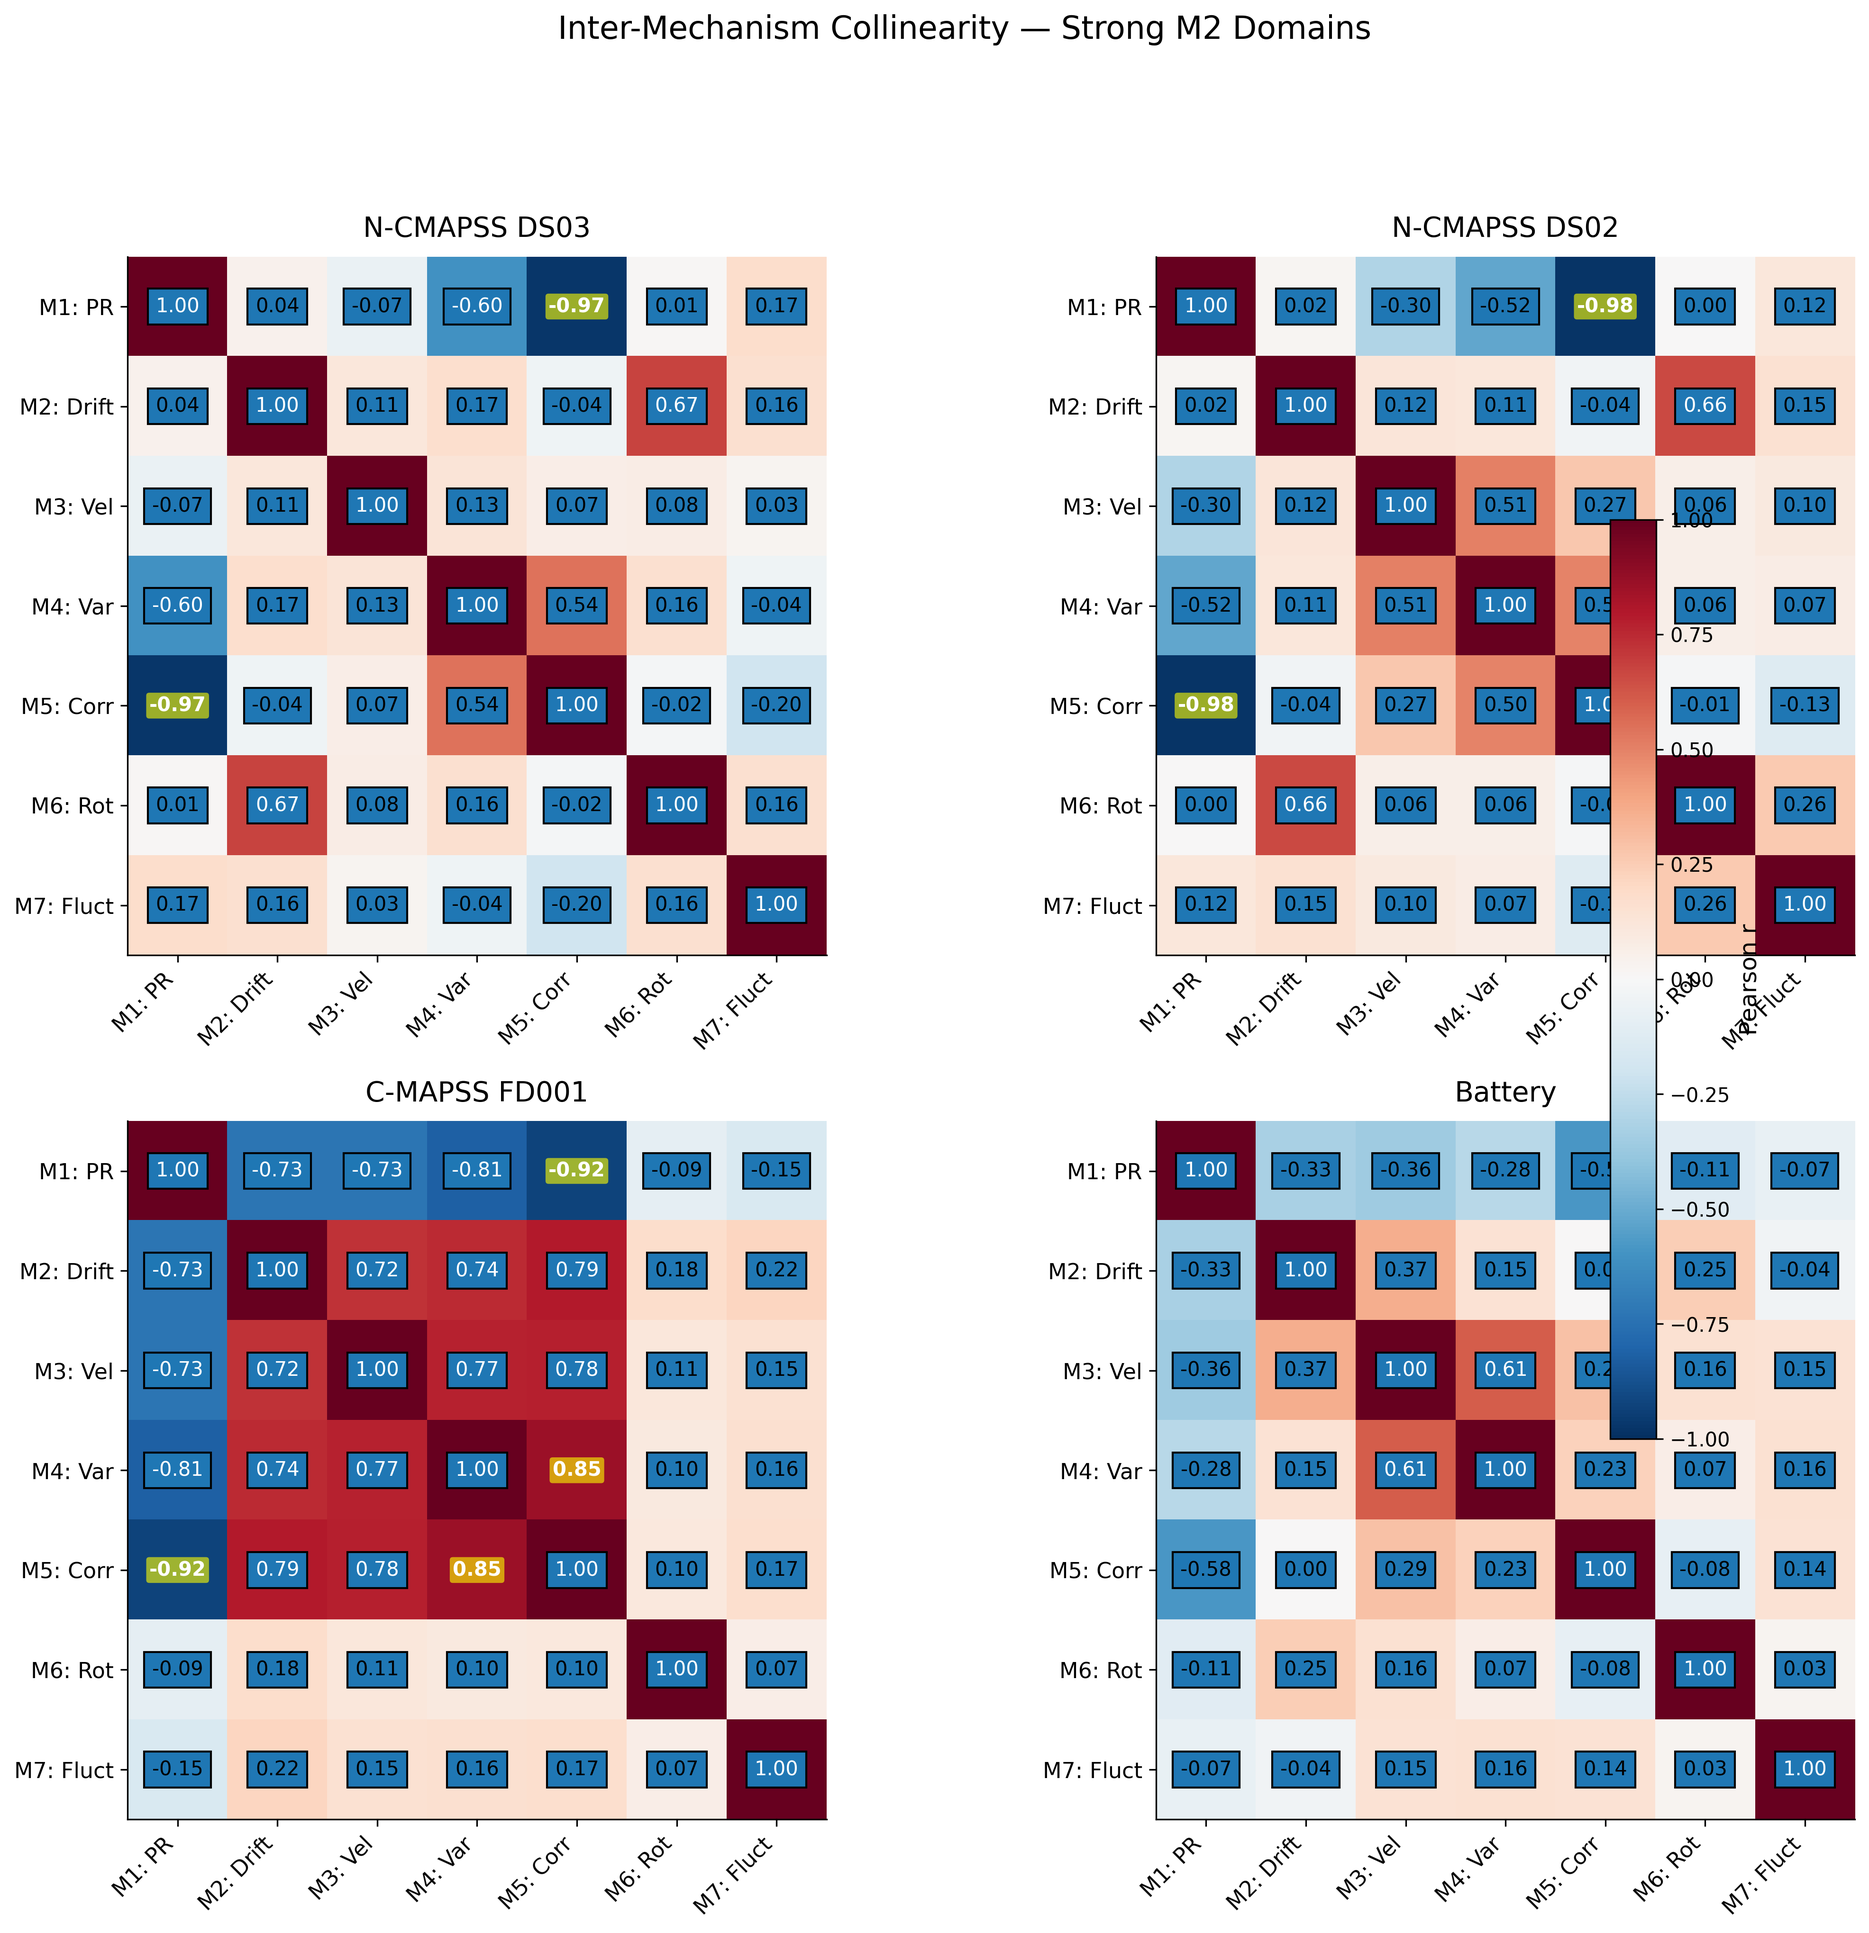
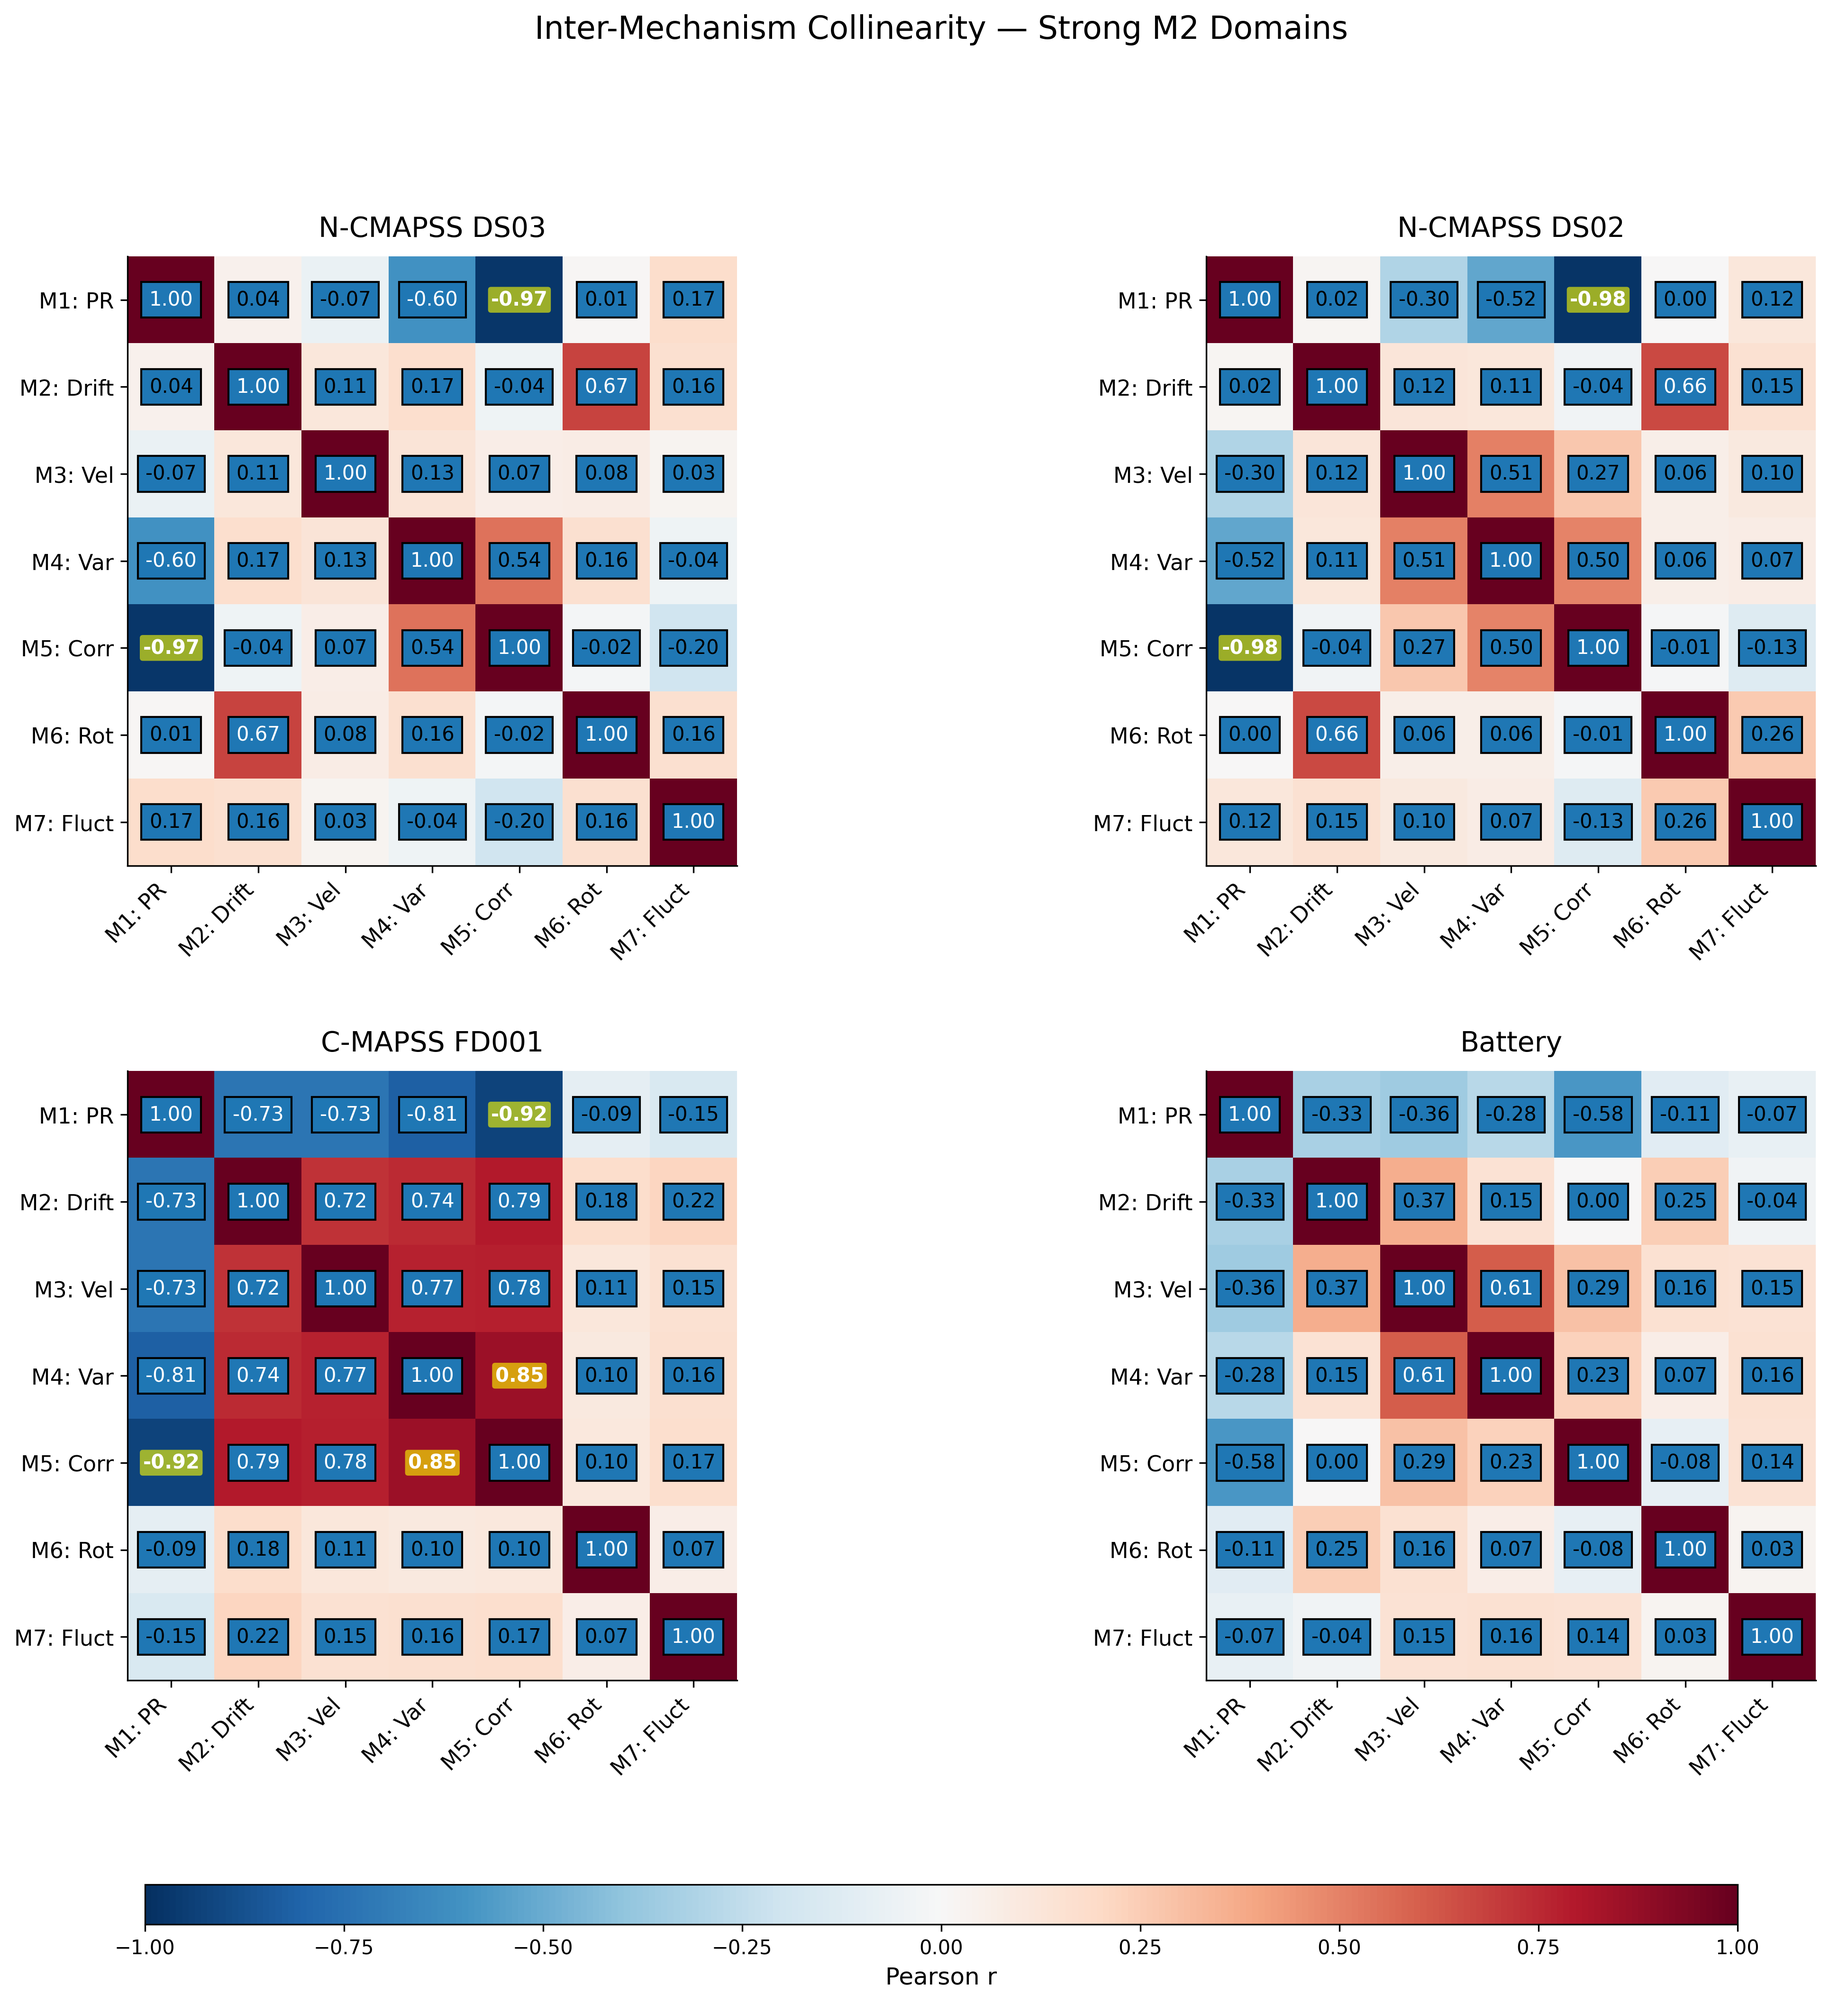
experiment: fix collinearity colorbar overlap — horizontal bottom placement

diff --git a/experiments/mechanism_discovery/generate_figures.py b/experiments/mechanism_discovery/generate_figures.py
@@ -343,9 +343,10 @@ def _plot_collinearity_2x2(results, domains, title, filename):
                         bbox=dict(boxstyle="round,pad=0.15", facecolor="yellow",
                                   alpha=0.6, edgecolor="none") if flagged else {})
 
-    fig.colorbar(im, ax=axes, shrink=0.6, label="Pearson r", pad=0.03)
     fig.suptitle(title, fontsize=16, y=0.98)
-    fig.tight_layout(pad=3.0, rect=[0, 0, 0.92, 0.95])
+    fig.tight_layout(rect=[0, 0.06, 1, 0.96], pad=3.0)
+    cbar_ax = fig.add_axes([0.15, 0.02, 0.7, 0.02])
+    fig.colorbar(im, cax=cbar_ax, orientation="horizontal", label="Pearson r")
     fig.savefig(FIG_DIR / filename)
     plt.close(fig)
     print(f"   Saved {filename}")
